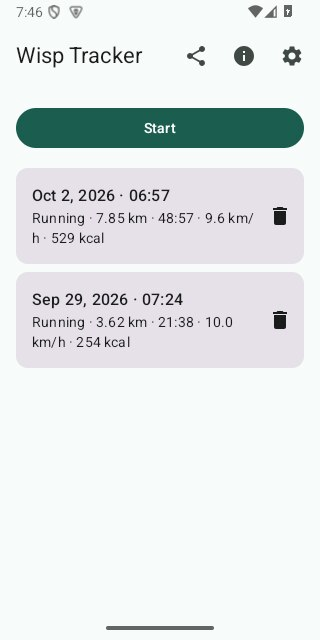
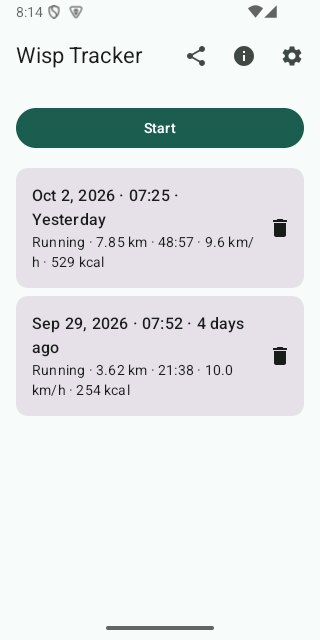
feat: show relative time on Home's history rows
Closes #189.

Each row now shows how long ago a session happened ("3 hours ago",
"Yesterday", "4 days ago", "2 weeks ago") alongside the existing
absolute date/time, not replacing it. Day-based buckets follow calendar-
day boundaries rather than a rolling 24-hour window, so a session from
11pm yesterday reads as "Yesterday" right after midnight instead of
drifting from "23 hours ago" into "Yesterday" an hour later. Omitted
once a session is more than four weeks old — past that point the
absolute date already says enough.

Session grouping ("today", "last week", ...), mentioned as a possible
alternative in #189, isn't included here — the relative-time label was
the concrete ask; grouping is a bigger layout change that can be a
follow-up if it's still wanted once this is in.

diff --git a/android/app/src/test/java/com/github/tomasbjerre/wisp/ui/FormattingTest.kt b/android/app/src/test/java/com/github/tomasbjerre/wisp/ui/FormattingTest.kt
@@ -3,6 +3,9 @@ package com.github.tomasbjerre.wisp.ui
 import com.github.tomasbjerre.wisp.data.UnitSystem
 import org.assertj.core.api.Assertions.assertThat
 import org.junit.jupiter.api.Test
+import java.time.ZoneId
+import java.time.ZoneOffset
+import java.time.ZonedDateTime
 
 /** Verifies the summary stats required by specs/ui-flows.md render sensibly. */
 class FormattingTest {
@@ -73,5 +76,65 @@ class FormattingTest {
                 .within(0.05),
         )
         assertThat(UnitSystem.METRIC.displayToKilograms(70.0)).isEqualTo(70.0)
+    }
+
+    @Test
+    fun `relative time under a minute reads as just now`() {
+        val now = at(2026, 10, 3, 12, 0, 0)
+        assertThat(Formatting.relativeTime(now - 30_000, now, ZONE)).isEqualTo("Just now")
+    }
+
+    @Test
+    fun `relative time under an hour is in minutes`() {
+        val now = at(2026, 10, 3, 12, 0, 0)
+        assertThat(Formatting.relativeTime(now - minutes(1), now, ZONE)).isEqualTo("1 minute ago")
+        assertThat(Formatting.relativeTime(now - minutes(5), now, ZONE)).isEqualTo("5 minutes ago")
+    }
+
+    @Test
+    fun `relative time on the same calendar day is in hours`() {
+        // 12:00 to 00:05 the same day — just over 11 hours, not yet a new calendar day.
+        val now = at(2026, 10, 3, 23, 5, 0)
+        assertThat(Formatting.relativeTime(at(2026, 10, 3, 12, 0, 0), now, ZONE)).isEqualTo("11 hours ago")
+    }
+
+    @Test
+    fun `relative time on the previous calendar day reads as yesterday regardless of elapsed hours`() {
+        // Only ~1 hour apart, but crosses midnight.
+        val now = at(2026, 10, 3, 0, 30, 0)
+        assertThat(Formatting.relativeTime(at(2026, 10, 2, 23, 0, 0), now, ZONE)).isEqualTo("Yesterday")
+    }
+
+    @Test
+    fun `relative time two to six calendar days back is in days`() {
+        val now = at(2026, 10, 10, 8, 0, 0)
+        assertThat(Formatting.relativeTime(at(2026, 10, 6, 8, 0, 0), now, ZONE)).isEqualTo("4 days ago")
+    }
+
+    @Test
+    fun `relative time one to three weeks back is in weeks`() {
+        val now = at(2026, 10, 24, 8, 0, 0)
+        assertThat(Formatting.relativeTime(at(2026, 10, 10, 8, 0, 0), now, ZONE)).isEqualTo("2 weeks ago")
+    }
+
+    @Test
+    fun `relative time beyond four weeks is omitted`() {
+        val now = at(2026, 11, 3, 8, 0, 0)
+        assertThat(Formatting.relativeTime(at(2026, 10, 3, 8, 0, 0), now, ZONE)).isNull()
+    }
+
+    private fun at(
+        year: Int,
+        month: Int,
+        day: Int,
+        hour: Int,
+        minute: Int,
+        second: Int,
+    ): Long = ZonedDateTime.of(year, month, day, hour, minute, second, 0, ZONE).toInstant().toEpochMilli()
+
+    private fun minutes(count: Long): Long = count * 60_000
+
+    private companion object {
+        val ZONE: ZoneId = ZoneOffset.UTC
     }
 }

diff --git a/android/app/src/main/java/com/github/tomasbjerre/wisp/ui/Formatting.kt b/android/app/src/main/java/com/github/tomasbjerre/wisp/ui/Formatting.kt
@@ -2,6 +2,9 @@ package com.github.tomasbjerre.wisp.ui
 
 import com.github.tomasbjerre.wisp.data.UnitSystem
 import java.text.SimpleDateFormat
+import java.time.Instant
+import java.time.ZoneId
+import java.time.temporal.ChronoUnit
 import java.util.Locale
 
 object Formatting {
@@ -74,4 +77,48 @@ object Formatting {
     private val dateTimeFormat = SimpleDateFormat("MMM d, yyyy · HH:mm", Locale.getDefault())
 
     fun dateTime(epochMillis: Long): String = dateTimeFormat.format(epochMillis)
+
+    /**
+     * See specs/ui-flows.md#1-home (issue #189): complementary to [dateTime], not a
+     * replacement for it — "3 hours ago", "Yesterday", "4 days ago". Null beyond four
+     * weeks, where [dateTime]'s own absolute date already says enough and a vague
+     * "2 months ago" stops being more useful than it.
+     *
+     * Day-based buckets (Yesterday, N days/weeks ago) count calendar-day boundaries in
+     * [zone], not a rolling 24-hour window — a session from 11pm yesterday reads as
+     * "Yesterday" the moment it's past midnight, the same way a person would describe it,
+     * not "23 hours ago" drifting to "Yesterday" an hour later.
+     */
+    fun relativeTime(
+        epochMillis: Long,
+        nowMillis: Long = System.currentTimeMillis(),
+        zone: ZoneId = ZoneId.systemDefault(),
+    ): String? {
+        val then = Instant.ofEpochMilli(epochMillis).atZone(zone)
+        val now = Instant.ofEpochMilli(nowMillis).atZone(zone)
+        val dayDiff = ChronoUnit.DAYS.between(then.toLocalDate(), now.toLocalDate())
+        return when {
+            dayDiff <= 0 -> sameDayPhrase(nowMillis - epochMillis)
+            dayDiff == 1L -> "Yesterday"
+            dayDiff < 7 -> plural(dayDiff, "day")
+            dayDiff < 28 -> plural(dayDiff / 7, "week")
+            else -> null
+        }
+    }
+
+    private fun sameDayPhrase(elapsedMillis: Long): String {
+        val elapsedSeconds = (elapsedMillis / 1000).coerceAtLeast(0)
+        val minutes = elapsedSeconds / 60
+        val hours = minutes / 60
+        return when {
+            minutes < 1 -> "Just now"
+            hours < 1 -> plural(minutes, "minute")
+            else -> plural(hours, "hour")
+        }
+    }
+
+    private fun plural(
+        count: Long,
+        unit: String,
+    ) = "$count $unit" + (if (count == 1L) "" else "s") + " ago"
 }

diff --git a/android/app/src/main/java/com/github/tomasbjerre/wisp/ui/home/HomeScreen.kt b/android/app/src/main/java/com/github/tomasbjerre/wisp/ui/home/HomeScreen.kt
@@ -289,8 +289,13 @@ private fun SessionRow(
             verticalAlignment = Alignment.CenterVertically,
         ) {
             Column(modifier = Modifier.weight(1f).padding(vertical = 16.dp)) {
+                // See specs/ui-flows.md#1-home: relative time is complementary to the
+                // absolute date/time, not a replacement for it, and omitted (not "N months
+                // ago") once it's no longer the more useful of the two.
+                val relativeTime = Formatting.relativeTime(session.startedAt)?.let { " · $it" } ?: ""
                 Text(
-                    Formatting.dateTime(session.startedAt) + (session.nearestCity?.let { " · $it" } ?: ""),
+                    Formatting.dateTime(session.startedAt) + relativeTime +
+                        (session.nearestCity?.let { " · $it" } ?: ""),
                     style = MaterialTheme.typography.titleMedium,
                 )
                 // See specs/calories.md#where-it-is-shown: omitted when the session has none.

diff --git a/specs/ui-flows.md b/specs/ui-flows.md
@@ -20,12 +20,22 @@ The app's entry point.
 
 - A prominent **Start** button/action, always available when idle.
 - A list of past sessions (most recent first), each row showing:
-  date/time, place name if known (see
+  date/time, relative time ("3 hours ago", "Yesterday", "4 days ago",
+  "2 weeks ago" — see [issue #189](https://github.com/tomasbjerre/wisp/issues/189)),
+  place name if known (see
   [Data Model](data-model.md#place-name)), the activity type if the session
   has one (see [Calories burned](calories.md#activity-type)), distance,
   duration, average speed, and calories when the session has them (see
   [Calories burned](calories.md#where-it-is-shown)). The type is only
   displayed here — it is chosen on Tracking.
+  - Relative time is complementary to the absolute date/time, never a
+    replacement for it. Day-based buckets (Yesterday, N days/weeks ago)
+    follow calendar-day boundaries, not a rolling 24-hour window — a
+    session from 11pm yesterday reads as "Yesterday" the moment it's
+    past midnight, not "23 hours ago" drifting into "Yesterday" an hour
+    later. Omitted entirely once a session is more than four weeks old:
+    past that point the absolute date already says enough, and a vague
+    "2 months ago" stops being more useful than it.
 - Tapping a row opens that session's **Detail** screen.
 - Each row also has a **Delete** action of its own (e.g. a trash icon),
   with the same confirmation step as Detail's Delete, so a session can be

diff --git a/docs/user-manual.md b/docs/user-manual.md
@@ -24,11 +24,13 @@ This is what you see when you open Wisp. It has:
   activity (run, ride, walk, anything). See [Tracking](#tracking) below
   for what happens next.
 - **Your history** — every past activity, most recent first, each row
-  showing its date, place name (when known — a neighborhood if one is
-  found, otherwise the city), what kind of activity it was (Walking,
-  Running or Cycling — when known), distance, duration, average speed, and
-  calories burned (when the activity has them). Tap a row to open that activity's [Detail](#detail)
-  screen.
+  showing its date and how long ago that was ("3 hours ago", "Yesterday",
+  "4 days ago", "2 weeks ago" — dropped once an activity is over four
+  weeks old, where the date alone already says enough), place name (when
+  known — a neighborhood if one is found, otherwise the city), what kind
+  of activity it was (Walking, Running or Cycling — when known), distance,
+  duration, average speed, and calories burned (when the activity has
+  them). Tap a row to open that activity's [Detail](#detail) screen.
 - **Delete** — the trash icon on each row deletes that activity directly
   from Home, without having to open it first. You'll be asked to confirm.
 - **Export CSV** — the share icon in the top-right exports your whole
